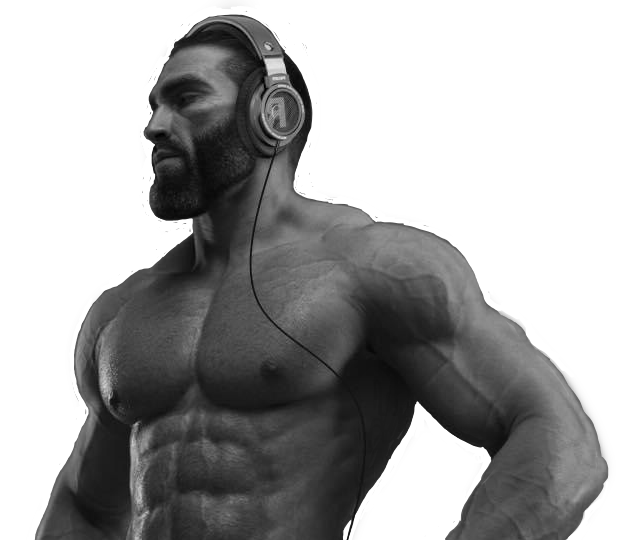
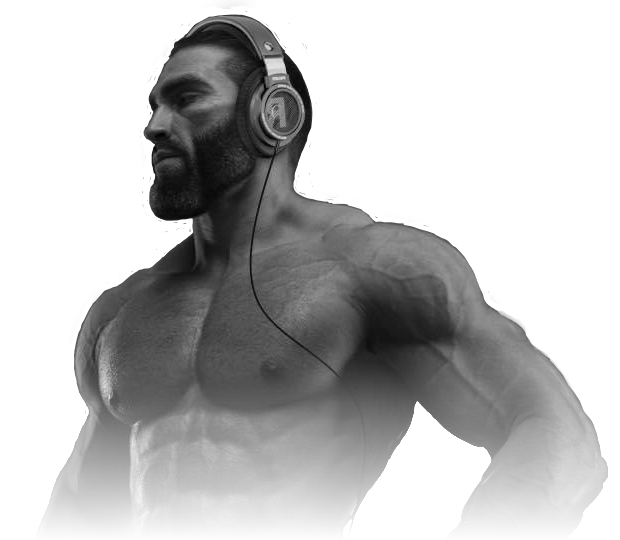
fixed overview

Changed region(s): [[0.0306, 0.6519, 0.9806, 1.0]]

diff --git a/src/views/Overview.css b/src/views/Overview.css
@@ -1,9 +1,9 @@
 .overview {
-
+    min-height: 100vh;
 }
 
-.overview-top__bar-wrapper {
-    width: 90%;
+.w1\/1 {
+    width: 100%;
 }
 
 .overview-middle__backdrop-path {
@@ -14,14 +14,30 @@
     top: 60%;
 }
 
-.torn-paper-bounds {
-    width: 1920px;
+.zeroauto {
+    margin: 0 auto;
+}
+
+.big-clip-paper {
+    width: 100vw;
+    left: -10px;
     height: 1080px;
+    background-image: url('../assets/grid-bg-opacity-30.png');
+    clip-path: path("m 1.3251 863.3202 l 0.0915 -376.6791 c -22.7166 -72.6411 -1.4166 -90.6411 205.5834 -130.6411 c 15 -15 11.2938 -9.5473 24 -12 c -9 -25 27 -36 41.7888 -33.1105 c -5.7888 -14.8895 20.0145 -15.174 24.0756 -17.2001 c 12.6939 -6.3319 18.1095 -12.5661 14.3313 -16.499 c -3.6453 -3.7945 -9.2274 -30.3765 -8.1957 -35.1904 c -0.0141 -4.8537 1.4823 -10.3949 3.3258 -12.3139 c 11.6742 -7.6861 95.6742 5.3139 110.6742 -7.6861 c 15 -1 27 -1 39 -2 c 24.7113 0.0136 36.8283 2.654 56.8866 12.3966 l 14.256 6.9245 l 23.244 -0.9642 c 12.7842 -0.5303 32.019 -2.3814 42.744 -4.1119 c 26.4741 -4.2719 49.4406 -5.7623 88.1178 -5.7189 c 42.2493 0.0542 57.7932 -2.1739 120.6507 -8.1178 c 54 -11 87 -16 157.4301 -21.7921 c 30.2682 -0.8444 36.2682 -1.8444 82.5699 -2.2079 c 45.1734 -2.1715 66 0 97.257 -7.7873 c 36 2 45 -1 75 6 c 24 6 30 11 26.8266 15.1715 c 11.8938 10.955 24.1734 12.8285 30.1734 13.8285 c 9.9483 5.1263 26.9256 9.3168 69.5298 17.1608 c 34.2894 6.3129 40.8777 8.0759 53.4702 10.8392 c 17.4702 -0.6079 11.4702 -0.6079 30 0 c 30 -1 117 3 135 6 c 44.271 -7.4854 137.271 -3.4854 174.0561 4.3397 c 12.375 1.5582 54.9 4.7628 94.5 7.1212 c 39.6 2.3584 83.223 5.567 99.7149 2.0537 c 48 -1 72 -1 121.9374 -2.0953 c 21.5856 -2.7164 48.6687 -5.5724 55.7916 -9.4193 c 11.5164 -0.7744 33.7635 -3.2765 42 -9 c 15.6747 -2.2838 40.4037 -4.8984 54.9534 -5.8125 c 14.5497 -0.914 42.8997 -3.9315 63 -6.7062 c 35.0466 -1.4813 47.0466 -4.4813 80.0466 -2.4813 c 18.975 -1.089 47.325 -3.3226 63 -4.9635 c 30.081 -3.1504 105 -6.0365 120 -0.0365 c 5.8689 0.5221 8.8311 2.9687 18 7 c 11.073 4.4184 32.0712 26.8302 39 35 l 5.8161 11.7009 l 29.1 4.5092 c 30.5043 4.7276 68.274 8.2061 103.9344 9.5758 c 22.7964 0.8747 68.694 3.8393 109.6659 7.0832 c 14.025 1.1107 41.025 2.7611 59.9997 3.6684 l 34.5 1.6491 l 27 -4.6191 c 47.1672 -8.0691 55.0191 -8.8381 84.0003 -8.2224 c 21.8592 0.4652 34.0092 1.7155 63.8133 6.5652 l 52.1703 1.0897 l 71.1867 -0.434 c 36.8133 -5.566 73.713 -0.1682 102.6864 2.8791 c 57.1269 -1.4451 114.1269 3.5549 196.2321 3.2087 c 83.7075 -2.1482 124.8948 -15.6538 238.3131 -20.6434 c 15.4248 -1.9583 36.5817 -7.0104 64.5003 -5.864 c 17.0814 -5.1464 47.2548 -3.6264 60.4548 -5.2443 c 13.2003 -1.6165 39.525 -3.385 58.5 -3.9301 c 26.5845 -0.7635 38.9742 -1.8349 51.9705 2.407 c 64.2162 -12.1145 63.5577 -12.0345 104.0991 -12.695 c 37.6584 -0.6143 38.8944 -0.7391 63.9012 -6.4729 c 28.0596 -6.4336 74.7141 -13.1615 91.2711 -13.1615 c 5.8278 0 17.7135 -1.5582 26.4126 -3.4636 c 28.8198 -6.3115 54.3915 -10.4099 92.3163 -14.7943 c 49.7025 -5.746 64.9701 -6.5706 87.5664 -4.7289 c 10.4136 0.849 28.7556 2.2675 40.7601 3.1531 c 19.0599 1.4063 24.0027 2.4438 39 8.1925 c 9.4455 3.6209 17.6187 7.0737 18.1629 7.6745 c 1.6329 1.8037 33.7641 12.9703 53.0109 18.4234 c 9.9 2.8045 27.0987 6.7998 38.2194 8.8788 c 11.1207 2.0776 24.7116 5.0354 30.2022 6.5719 c 5.4906 1.5365 17.7696 4.0644 27.2871 5.6172 c 9.5172 1.5528 26.7735 5.1127 38.3472 7.9091 c 35.274 8.5262 76.2975 14.8228 104.4435 7.8957 c 25.6452 1.2463 36.4002 0.8083 61.5003 -2.5008 c 5.7747 -0.7608 21.975 -2.1644 35.9997 -3.1178 c 26.4918 -1.801 40.8636 -1.2477 93 3.583 c 12.3753 1.146 42.75 3.4053 67.5 5.0191 c 88.8687 5.7949 112.2555 9.3046 127.626 11.3464 l 12.9441 1.3358 l 130.1133 0.8639 c 150.7956 1.0008 178.113 1.9583 251.4039 8.8096 c 64.0608 5.9888 83.6817 8.8001 111.4134 15.962 l 20.7558 5.3609 l 0.0201 435.0128 l 0.0201 435.0128 H 2884.233 H 4.2324 Z");    /* used SvgPathEdit to properly scale the path. was not able to figure this out in Inkscape */
 }
 
 .clip-paper {
-    /* transform: matrix(9.531774,0,0,13.561559,-21.410766,-2611.5181); */
-    background-image: url('../assets/grid-bg.png');
+    width: 100vw;
+    height: 1080px;
+    background-image: url('../assets/grid-bg-opacity-30.png');
     /* used SvgPathEdit to properly scale the path. was not able to figure this out in Inkscape */
-    clip-path: path("m 1.4417 863.3202 l 0.0305 -376.6791 c -0.4722 -73.6411 -8.1865 -87.4409 68.5278 -130.6411 c 5 -15 3.7646 -9.5473 8 -12 c -3 -25 9 -36 13.9296 -33.1105 c -1.9296 -14.8895 6.6715 -15.174 8.0252 -17.2001 c 4.2313 -6.3319 6.0365 -12.5661 4.7771 -16.499 c -1.2151 -3.7945 -3.0758 -30.3765 -2.7319 -35.1904 c -0.0047 -4.8537 0.4941 -10.3949 1.1086 -12.3139 c 3.8914 -7.6861 33.8914 8.3139 36.9853 -13.7948 c 3.5187 0.8123 9.453 1.4823 13.1874 1.4877 c 8.2371 0.0136 12.2761 2.654 18.9622 12.3966 l 4.752 6.9245 l 7.748 -0.9642 c 4.2614 -0.5303 10.673 -2.3814 14.248 -4.1119 c 8.8247 -4.2719 16.4802 -5.7623 29.3726 -5.7189 c 14.0831 0.0542 19.2644 -2.1739 40.2169 -8.1178 c 18 -11 29 -16 52.4767 -21.7921 c 10.0894 -0.8444 12.0894 -1.8444 27.5233 -2.2079 c 15.0578 -2.1715 22 0 32.419 -7.7873 c 12 2 15 -1 25 6 c 8 6 10 11 8.9422 15.1715 c 3.9646 10.955 8.0578 12.8285 10.0578 13.8285 c 3.3161 5.1263 8.9752 9.3168 23.1766 17.1608 c 11.4298 6.3129 13.6259 8.0759 17.8234 10.8392 c 5.8234 -0.6079 3.8234 -0.6079 10 0 c 10 -1 39 3 45 6 c 14.757 -7.4854 45.757 -3.4854 58.0187 4.3397 c 4.125 1.5582 18.3 4.7628 31.5 7.1212 c 13.2 2.3584 27.741 5.567 33.2383 2.0537 c 16 -1 24 -1 40.6458 -2.0953 c 7.1952 -2.7164 16.2229 -5.5724 18.5972 -9.4193 c 3.8388 -0.7744 11.2545 -3.2765 14 -9 c 5.2249 -2.2838 13.4679 -4.8984 18.3178 -5.8125 c 4.8499 -0.914 14.2999 -3.9315 21 -6.7062 c 11.6822 -1.4813 15.6822 -4.4813 26.6822 -2.4813 c 6.325 -1.089 15.775 -3.3226 21 -4.9635 c 10.027 -3.1504 35 -6.0365 40 -0.0365 c 1.9563 0.5221 2.9437 2.9687 6 7 c 3.691 4.4184 10.6904 26.8302 13 35 l 1.9387 11.7009 l 9.7 4.5092 c 10.1681 4.7276 22.758 8.2061 34.6448 9.5758 c 7.5988 0.8747 22.898 3.8393 36.5553 7.0832 c 4.675 1.1107 13.675 2.7611 19.9999 3.6684 l 11.5 1.6491 l 9 -4.6191 c 15.7224 -8.0691 18.3397 -8.8381 28.0001 -8.2224 c 7.2864 0.4652 11.3364 1.7155 21.2711 6.5652 l 17.3901 1.0897 l 23.7289 -0.434 c 12.2711 -5.566 24.571 -0.1682 34.2288 2.8791 c 19.0423 -1.4451 38.0423 3.5549 65.4107 3.2087 c 27.9025 -2.1482 41.6316 -15.6538 79.4377 -20.6434 c 5.1416 -1.9583 12.1939 -7.0104 21.5001 -5.864 c 5.6938 -5.1464 15.7516 -3.6264 20.1516 -5.2443 c 4.4001 -1.6165 13.175 -3.385 19.5 -3.9301 c 8.8615 -0.7635 12.9914 -1.8349 18 -4.6692 c 21.4054 -12.1145 21.1859 -12.0345 34.6997 -12.695 c 12.5528 -0.6143 12.9648 -0.7391 21.3004 -6.4729 c 9.3532 -6.4336 24.9047 -13.1615 30.4237 -13.1615 c 1.9426 0 5.9045 -1.5582 8.8042 -3.4636 c 9.6066 -6.3115 18.1305 -10.4099 30.7721 -14.7943 c 16.5675 -5.746 21.6567 -6.5706 29.1888 -4.7289 c 3.4712 0.849 9.5852 2.2675 13.5867 3.1531 c 6.3533 1.4063 8.0009 2.4438 13 8.1925 c 3.1485 3.6209 5.8729 7.0737 6.0543 7.6745 c 0.5443 1.8037 11.2547 12.9703 17.6703 18.4234 c 3.3 2.8045 9.0329 6.7998 12.7398 8.8788 c 3.7069 2.0776 8.2372 5.0354 10.0674 6.5719 c 1.8302 1.5365 5.9232 4.0644 9.0957 5.6172 c 3.1724 1.5528 8.9245 5.1127 12.7824 7.9091 c 11.758 8.5262 25.4325 14.8228 35.3147 16.263 c 8.5484 1.2463 12.1334 0.8083 20.5001 -2.5008 c 1.9249 -0.7608 7.325 -2.1644 11.9999 -3.1178 c 8.8306 -1.801 13.6212 -1.2477 31 3.583 c 4.1251 1.146 14.25 3.4053 22.5 5.0191 c 29.6229 5.7949 37.4185 9.3046 42.542 11.3464 l 4.3147 1.3358 l 43.3711 0.8639 c 50.2652 1.0008 59.371 1.9583 83.8013 8.8096 c 21.3536 5.9888 27.8939 8.8001 37.1378 15.962 l 6.9186 5.3609 l 0.0067 435.0128 l 0.0067 435.0128 H 961.411 H 1.4108 Z");
+    clip-path: path("m 0.4417 863.3202 l 0.0305 -376.6791 c -7.5722 -72.6411 -0.4722 -90.6411 68.5278 -130.6411 c 5 -15 3.7646 -9.5473 8 -12 c -3 -25 9 -36 13.9296 -33.1105 c -1.9296 -14.8895 6.6715 -15.174 8.0252 -17.2001 c 4.2313 -6.3319 6.0365 -12.5661 4.7771 -16.499 c -1.2151 -3.7945 -3.0758 -30.3765 -2.7319 -35.1904 c -0.0047 -4.8537 0.4941 -10.3949 1.1086 -12.3139 c 3.8914 -7.6861 31.8914 5.3139 36.8914 -7.6861 c 5 -1 9 -1 13 -2 c 8.2371 0.0136 12.2761 2.654 18.9622 12.3966 l 4.752 6.9245 l 7.748 -0.9642 c 4.2614 -0.5303 10.673 -2.3814 14.248 -4.1119 c 8.8247 -4.2719 16.4802 -5.7623 29.3726 -5.7189 c 14.0831 0.0542 19.2644 -2.1739 40.2169 -8.1178 c 18 -11 29 -16 52.4767 -21.7921 c 10.0894 -0.8444 12.0894 -1.8444 27.5233 -2.2079 c 15.0578 -2.1715 22 0 32.419 -7.7873 c 12 2 15 -1 25 6 c 8 6 10 11 8.9422 15.1715 c 3.9646 10.955 8.0578 12.8285 10.0578 13.8285 c 3.3161 5.1263 8.9752 9.3168 23.1766 17.1608 c 11.4298 6.3129 13.6259 8.0759 17.8234 10.8392 c 5.8234 -0.6079 3.8234 -0.6079 10 0 c 10 -1 39 3 45 6 c 14.757 -7.4854 45.757 -3.4854 58.0187 4.3397 c 4.125 1.5582 18.3 4.7628 31.5 7.1212 c 13.2 2.3584 27.741 5.567 33.2383 2.0537 c 16 -1 24 -1 40.6458 -2.0953 c 7.1952 -2.7164 16.2229 -5.5724 18.5972 -9.4193 c 3.8388 -0.7744 11.2545 -3.2765 14 -9 c 5.2249 -2.2838 13.4679 -4.8984 18.3178 -5.8125 c 4.8499 -0.914 14.2999 -3.9315 21 -6.7062 c 11.6822 -1.4813 15.6822 -4.4813 26.6822 -2.4813 c 6.325 -1.089 15.775 -3.3226 21 -4.9635 c 10.027 -3.1504 35 -6.0365 40 -0.0365 c 1.9563 0.5221 2.9437 2.9687 6 7 c 3.691 4.4184 10.6904 26.8302 13 35 l 1.9387 11.7009 l 9.7 4.5092 c 10.1681 4.7276 22.758 8.2061 34.6448 9.5758 c 7.5988 0.8747 22.898 3.8393 36.5553 7.0832 c 4.675 1.1107 13.675 2.7611 19.9999 3.6684 l 11.5 1.6491 l 9 -4.6191 c 15.7224 -8.0691 18.3397 -8.8381 28.0001 -8.2224 c 7.2864 0.4652 11.3364 1.7155 21.2711 6.5652 l 17.3901 1.0897 l 23.7289 -0.434 c 12.2711 -5.566 24.571 -0.1682 34.2288 2.8791 c 19.0423 -1.4451 38.0423 3.5549 65.4107 3.2087 c 27.9025 -2.1482 41.6316 -15.6538 79.4377 -20.6434 c 5.1416 -1.9583 12.1939 -7.0104 21.5001 -5.864 c 5.6938 -5.1464 15.7516 -3.6264 20.1516 -5.2443 c 4.4001 -1.6165 13.175 -3.385 19.5 -3.9301 c 8.8615 -0.7635 12.9914 -1.8349 17.3235 2.407 c 21.4054 -12.1145 21.1859 -12.0345 34.6997 -12.695 c 12.5528 -0.6143 12.9648 -0.7391 21.3004 -6.4729 c 9.3532 -6.4336 24.9047 -13.1615 30.4237 -13.1615 c 1.9426 0 5.9045 -1.5582 8.8042 -3.4636 c 9.6066 -6.3115 18.1305 -10.4099 30.7721 -14.7943 c 16.5675 -5.746 21.6567 -6.5706 29.1888 -4.7289 c 3.4712 0.849 9.5852 2.2675 13.5867 3.1531 c 6.3533 1.4063 8.0009 2.4438 13 8.1925 c 3.1485 3.6209 5.8729 7.0737 6.0543 7.6745 c 0.5443 1.8037 11.2547 12.9703 17.6703 18.4234 c 3.3 2.8045 9.0329 6.7998 12.7398 8.8788 c 3.7069 2.0776 8.2372 5.0354 10.0674 6.5719 c 1.8302 1.5365 5.9232 4.0644 9.0957 5.6172 c 3.1724 1.5528 8.9245 5.1127 12.7824 7.9091 c 11.758 8.5262 25.4325 14.8228 34.8145 7.8957 c 8.5484 1.2463 12.1334 0.8083 20.5001 -2.5008 c 1.9249 -0.7608 7.325 -2.1644 11.9999 -3.1178 c 8.8306 -1.801 13.6212 -1.2477 31 3.583 c 4.1251 1.146 14.25 3.4053 22.5 5.0191 c 29.6229 5.7949 37.4185 9.3046 42.542 11.3464 l 4.3147 1.3358 l 43.3711 0.8639 c 50.2652 1.0008 59.371 1.9583 83.8013 8.8096 c 21.3536 5.9888 27.8939 8.8001 37.1378 15.962 l 6.9186 5.3609 l 0.0067 435.0128 l 0.0067 435.0128 H 961.411 H 1.4108 Z");
+}
+
+
+
+.scale-x-300 {
+    transform: scaleX(3);
+    transform-origin: left;
+    display: none;
 }

diff --git a/src/views/Overview.tsx b/src/views/Overview.tsx
@@ -4,13 +4,12 @@ import Burger from "../components/Burger";
 import TornPaperEdge from "../assets/torn-paper-edge.png";
 import TornPaper from "../assets/torn-paper.png";
 import Profile from "../assets/profile-placeholder.png";
-import GridBG from "../assets/grid-bg.png";
 
 const Overview = () => {
   return (
     <>
       <header className="overview">
-        <div className="overview-top__bar-wrapper p-2 my-4 mx-auto">
+        <nav className="overview-top__bar-wrapper p-2 mx-4 my-4">
           <div className="overview-top__bar w-full flex justify-between align-middle">
             <span className="overview-top__bar-logo pt-2 pointer-events-none">
               <img src={Logo} alt="logo" width="48px" height="48px" />
@@ -19,24 +18,24 @@ const Overview = () => {
               <Burger />
             </span>
           </div>
+        </nav>
+        <div className="__SPACER__ my-3">&nbsp;</div>
+        <div className="overview-image-container">
+            <div className="clip-paper bg-black absolute block mega:hidden" />
+            <div className="big-clip-paper bg-black absolute hidden mega:block" />
+            <img
+                src={TornPaperEdge}
+                alt="paper-edge"
+                className="relative top-36 pointer-events-none min-w-max block mega:hidden"
+            />
+                        <img
+                src={TornPaperEdge}
+                alt="paper-edge"
+                className="relative top-36 pointer-events-none min-w-max scale-x-300 hidden mega:block"
+            />
         </div>
-        <div className="overview-middle__backdrop-img min-w-max relative top-32">
-          <div className="torn-paper-bounds clip-paper bg-fuschia absolute">
-
-          </div>
-          {/* <img
-            src={TornPaper}
-            alt=""
-            className="absolute top-36 pointer-events-none"
-          /> */}
-          <img
-            src={TornPaperEdge}
-            alt="paper-edge"
-            className="relative top-36 pointer-events-none"
-          />
-        </div>
-        <div className="overview-middle__backdrop-content absolute top-3/5 flex justify-between w-full pointer-events-none">
-          <div className="mx-32 my-20 flex flex-col leading-tight text-white">
+        <div className="relative flex justify-between pointer-events-none bottom-96 w-11/12 mx-auto">
+          <div className="flex flex-col leading-tight text-white my-20">
             <h1 className="font-unbounded overviewTextBp:text-8xl text-7xl ">
               Patrick Keefe
             </h1>
@@ -46,11 +45,10 @@ const Overview = () => {
           </div>
           <img
             src={Profile}
-            className="relative bottom-56 scale-150 hidden lg:block "
+            className="box-border relative hidden lg:block origin-bottom scale-150 pb-60"
           />
         </div>
       </header>
-
     </>
   );
 };

diff --git a/src/components/Burger.tsx b/src/components/Burger.tsx
@@ -1,13 +1,31 @@
-import BurgerIcon from "../assets/hamburger-menu.svg"
+import BurgerIcon from "../assets/hamburger-menu.svg";
 
 const Burger = () => {
-    return (
-        <div className="sticky z-40">
-            <a href="/test">
-                <img src={BurgerIcon} alt="" width="48px" height="48px"/>
-            </a>
-        </div>
-    );
-}
+  return (
+    <div className="fixed z-40 right-5">
+      <a href="/test">
+        <svg
+          viewBox="0 0 24 30"
+          x="0px"
+          y="0px"
+          width="64px"
+          height="64px"
+          version="1.1"
+          xmlns="http://www.w3.org/2000/svg"
+        >
+          <path fill="#121214"
+            d="m 5,5.8596166 7,1.3949289 a 1.1045894,0.90531381 47.845022 0 0 0,-2 L 5,3.8596166 a 1.1045894,0.90531381 47.845022 0 0 0,2 z"
+          />
+          <path fill="#121214"
+            d="m 19,18.649474 -7,-1.394929 a 1.1045894,0.90531381 47.845022 0 0 0,2 l 7,1.394929 a 1.1045894,0.90531381 47.845022 0 0 0,-2 z"
+          />
+          <path fill="#121214"
+            d="M 20,13.848749 A 1.1043022,0.90507843 47.845022 0 0 19,12.649474 L 5,9.8596161 a 1.1045894,0.90531381 47.845022 0 0 0,1.9999999 l 14,2.789858 a 1.1043022,0.90507843 47.845022 0 0 1,-0.800725 z"
+          />
+        </svg>
+      </a>
+    </div>
+  );
+};
 
 export default Burger;

diff --git a/src/App.tsx b/src/App.tsx
@@ -11,6 +11,23 @@ function App() {
     <>
       <main className="main-content bg-off-white">
         <Overview />
+        <section className="">
+          <p>
+            HELLO DESC
+            <br />A
+            <br />B
+            <br />C
+            <br />D
+            <br />A
+            <br />B
+            <br />C
+            <br />D
+            <br />A
+            <br />B
+            <br />C
+            <br />D
+          </p>
+        </section>
       </main>
     </>
   )

diff --git a/src/views/IntroWhoAmI.tsx b/src/views/IntroWhoAmI.tsx
@@ -1,4 +1,4 @@
-const PageThree = () => {
+const IntroWhoAmI = () => {
     return (
         <div>
             
@@ -6,4 +6,4 @@ const PageThree = () => {
     );
 }
 
-export default PageThree;
+export default IntroWhoAmI;

diff --git a/tailwind.config.js b/tailwind.config.js
@@ -8,6 +8,7 @@ export default {
         lg: "976px",
         xl: "1440px",
         overviewTextBp: "1790px",
+        mega: "1921px",
       },
       colors: {
         "white":         "#FFFFFF",

diff --git a/src/index.css b/src/index.css
@@ -38,7 +38,8 @@
 }
 
 :root {
-
+  --mega-scale-factor-x: calc(100vw / 1920);
+  --mega-scale-factor-y: calc(100vh / 1080);
 }
 
 
